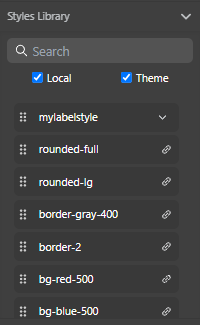
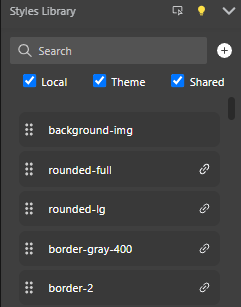
first draft

diff --git a/docs/design-webforms/styling.md b/docs/design-webforms/styling.md
@@ -9,15 +9,23 @@ Once a component is on the Canvas, you can customize its look using styling tool
 
 One way of styling components is by dragging CSS classes from the Styles Library and dropping them on the components.
 
-The Styles Library offers two types of styles: 
+The Styles Library offers three types of styles: 
 * Local: Styles you create
 * Theme: Predefined CSS classes
+* Shared: Shared CSS classes
 
 ![styles-library](img/styles-library.png)
 
-Unlike Theme classes, Local styles can only be used in the Webforms in which they are created. 
+Local styles can only be used in the Webforms in which they are created, while theme and shared CSS classes are usable by all Webforms through the whole project.
 
-To create a local CSS class, click the "+" button and enter a name. CSS classes can be edited in the Contextual panel at the bottom.
+Theme classes cannot be modified. 
+
+To create a local CSS class, click the "+" button and enter a name and let the **Export as Shared** option unchecked.
+To create a shared CSS class, check the **Export as Shared** option.
+
+Local or shared CSS class code can be edited in the Contextual panel at the bottom.
+
+
 
 #### Inspect button
 
@@ -59,8 +67,9 @@ You can export the new values to create a new CSS class.
 
 You can export the style of an element as a CSS class to reuse it later: 
 1. Select a an element on the canvas, the tooltip appears.
-2. Click the CSS icon in the tooltip and enter a name for the new CSS class.
-3. Click **Export**.
+2. Click the CSS icon in the tooltip and enter a name for the new CSS class. 
+3. If you want to export a shared CSS, check the **Export as shared** option.
+4. Click **Export**.
 
 :::note
 
@@ -68,11 +77,19 @@ This does not export all the styles of the component, only the properties you ov
 
 :::
 
-This exports the [new style properties](#overriding-style-properties) of the element as a new local CSS class. Now it appears as a choice in the Styles library and in the property list, and you can apply the class to other elements on your canvas. 
+This exports the [new style properties](#overriding-style-properties) of the element as a new local or shared CSS class. Now it appears as a choice in the Styles library and in the property list, and you can apply the class to other elements on your canvas. 
+
+### Naming CSS classes
+
+If a shared css and a local css class have the same name:
+- in the Webform source, the shared css is placed first and the local one is placed in second
+- as a result, if one of them is applied to a component, they are both applied and some local css properties may override the shared ones.
+
+
 
 ### Editing a CSS class
 
-Once a local class is created, you can hover over it in the Styles Library and click the **Edit Class** button next to its name to edit the CSS directly. The changes apply to all the components using this class.
+Once a local or shared class is created, you can hover over it in the Styles Library and click the **Edit Class** button next to its name to edit the CSS directly. The changes apply to all the components using this class.
 
 ## See also
 
